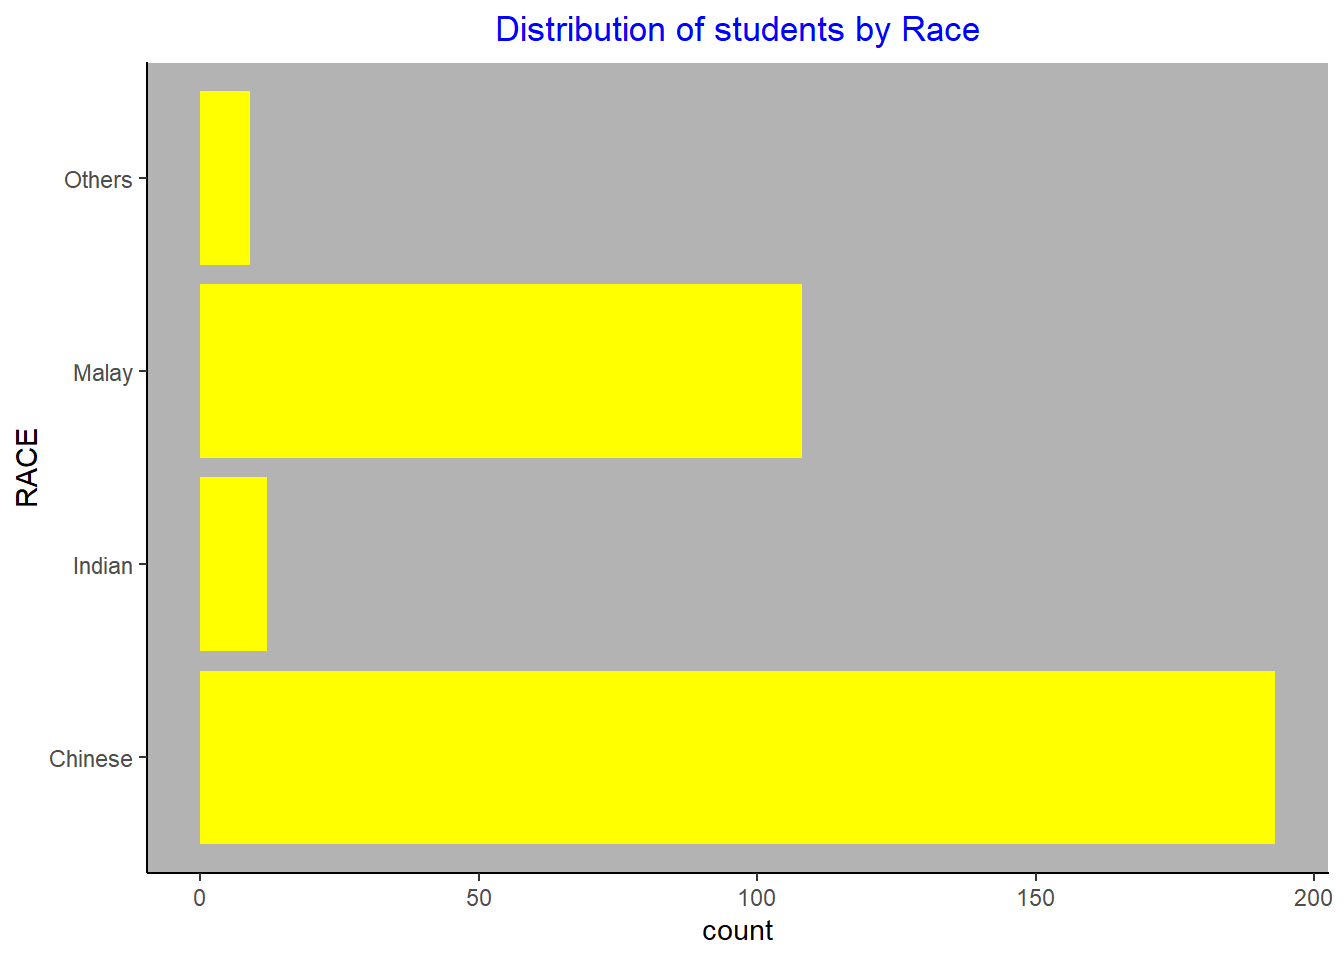
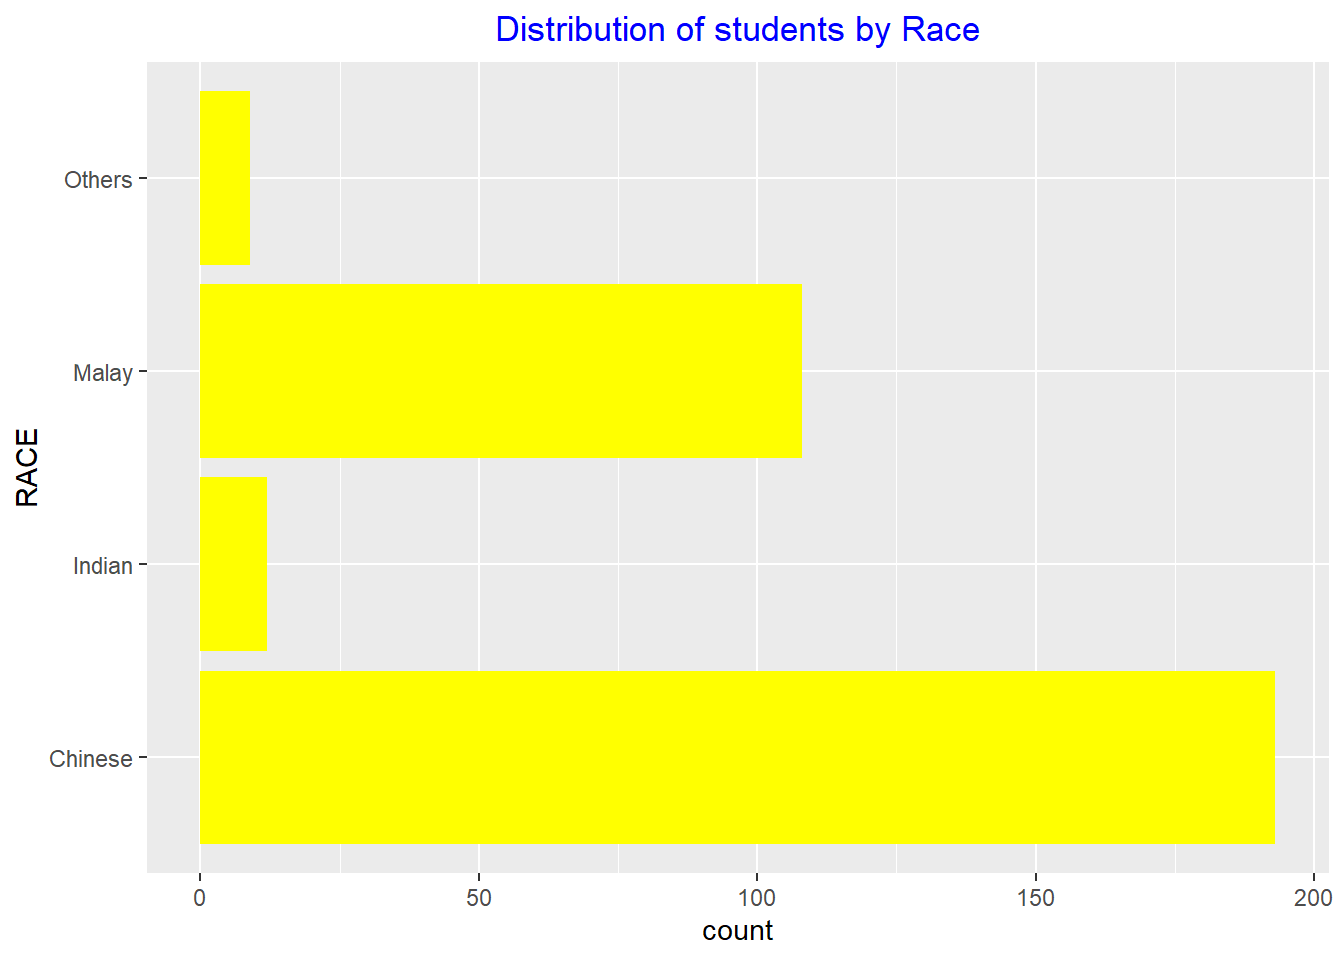
Commit after edits for Lab 1 - Exploring themes

diff --git a/_site/Hands-on_Ex/Hands-on_Ex01/Hands-on_Ex01.html b/_site/Hands-on_Ex/Hands-on_Ex01/Hands-on_Ex01.html
@@ -655,18 +655,65 @@ dbl (3): ENGLISH, MATHS, SCIENCE
 <h1 style="color: yellow">7. Exploring ggplot2 Themes</h1>
 <section id="working-with-themes" class="level2" style="color: white">
 <h2 style="color: white" class="anchored" data-anchor-id="working-with-themes">7.1 Working with themes</h2>
+<div class="tabset-margin-container"></div><div class="panel-tabset">
+<ul class="nav nav-tabs" role="tablist"><li class="nav-item" role="presentation"><a class="nav-link active" id="tabset-2-1-tab" data-bs-toggle="tab" data-bs-target="#tabset-2-1" role="tab" aria-controls="tabset-2-1" aria-selected="true">theme_gray</a></li><li class="nav-item" role="presentation"><a class="nav-link" id="tabset-2-2-tab" data-bs-toggle="tab" data-bs-target="#tabset-2-2" role="tab" aria-controls="tabset-2-2" aria-selected="false">theme_minimal</a></li><li class="nav-item" role="presentation"><a class="nav-link" id="tabset-2-3-tab" data-bs-toggle="tab" data-bs-target="#tabset-2-3" role="tab" aria-controls="tabset-2-3" aria-selected="false">theme_bw</a></li><li class="nav-item" role="presentation"><a class="nav-link" id="tabset-2-4-tab" data-bs-toggle="tab" data-bs-target="#tabset-2-4" role="tab" aria-controls="tabset-2-4" aria-selected="false">theme_classic</a></li></ul>
+<div class="tab-content">
+<div id="tabset-2-1" class="tab-pane active" role="tabpanel" aria-labelledby="tabset-2-1-tab">
 <div class="cell">
 <div class="sourceCode cell-code" id="cb31"><pre class="sourceCode r code-with-copy"><code class="sourceCode r"><span id="cb31-1"><a href="#cb31-1" aria-hidden="true" tabindex="-1"></a><span class="fu">ggplot</span>(<span class="at">data =</span> exam_data, </span>
 <span id="cb31-2"><a href="#cb31-2" aria-hidden="true" tabindex="-1"></a>       <span class="fu">aes</span>(<span class="at">x =</span> RACE)) <span class="sc">+</span></span>
 <span id="cb31-3"><a href="#cb31-3" aria-hidden="true" tabindex="-1"></a>  <span class="fu">geom_bar</span>(<span class="at">fill =</span> <span class="st">"yellow"</span>) <span class="sc">+</span></span>
 <span id="cb31-4"><a href="#cb31-4" aria-hidden="true" tabindex="-1"></a>  <span class="fu">coord_flip</span>() <span class="sc">+</span></span>
-<span id="cb31-5"><a href="#cb31-5" aria-hidden="true" tabindex="-1"></a>  <span class="fu">theme_classic</span>() <span class="sc">+</span></span>
-<span id="cb31-6"><a href="#cb31-6" aria-hidden="true" tabindex="-1"></a>  <span class="fu">theme</span>(<span class="at">panel.background =</span> <span class="fu">element_rect</span>(<span class="at">fill =</span> <span class="st">"grey70"</span>,</span>
-<span id="cb31-7"><a href="#cb31-7" aria-hidden="true" tabindex="-1"></a>                                         <span class="at">color =</span> <span class="st">"white"</span>)) <span class="sc">+</span></span>
-<span id="cb31-8"><a href="#cb31-8" aria-hidden="true" tabindex="-1"></a>  <span class="fu">ggtitle</span>(<span class="st">"Distribution of students by Race"</span>) <span class="sc">+</span> </span>
-<span id="cb31-9"><a href="#cb31-9" aria-hidden="true" tabindex="-1"></a>  <span class="fu">theme</span>(<span class="at">plot.title =</span> <span class="fu">element_text</span>(<span class="at">hjust =</span> <span class="fl">0.5</span>, <span class="at">color =</span> <span class="st">"blue"</span>))</span></code><button title="Copy to Clipboard" class="code-copy-button"><i class="bi"></i></button></pre></div>
+<span id="cb31-5"><a href="#cb31-5" aria-hidden="true" tabindex="-1"></a>  <span class="fu">theme_gray</span>() <span class="sc">+</span></span>
+<span id="cb31-6"><a href="#cb31-6" aria-hidden="true" tabindex="-1"></a>  <span class="fu">ggtitle</span>(<span class="st">"Distribution of students by Race"</span>) <span class="sc">+</span> </span>
+<span id="cb31-7"><a href="#cb31-7" aria-hidden="true" tabindex="-1"></a>  <span class="fu">theme</span>(<span class="at">plot.title =</span> <span class="fu">element_text</span>(<span class="at">hjust =</span> <span class="fl">0.5</span>, <span class="at">color =</span> <span class="st">"blue"</span>))</span></code><button title="Copy to Clipboard" class="code-copy-button"><i class="bi"></i></button></pre></div>
 <div class="cell-output-display">
 <p><img src="Hands-on_Ex01_files/figure-html/unnamed-chunk-25-1.png" class="img-fluid" width="672"></p>
+</div>
+</div>
+</div>
+<div id="tabset-2-2" class="tab-pane" role="tabpanel" aria-labelledby="tabset-2-2-tab">
+<div class="cell">
+<div class="sourceCode cell-code" id="cb32"><pre class="sourceCode r code-with-copy"><code class="sourceCode r"><span id="cb32-1"><a href="#cb32-1" aria-hidden="true" tabindex="-1"></a><span class="fu">ggplot</span>(<span class="at">data =</span> exam_data, </span>
+<span id="cb32-2"><a href="#cb32-2" aria-hidden="true" tabindex="-1"></a>       <span class="fu">aes</span>(<span class="at">x =</span> RACE)) <span class="sc">+</span></span>
+<span id="cb32-3"><a href="#cb32-3" aria-hidden="true" tabindex="-1"></a>  <span class="fu">geom_bar</span>(<span class="at">fill =</span> <span class="st">"yellow"</span>) <span class="sc">+</span></span>
+<span id="cb32-4"><a href="#cb32-4" aria-hidden="true" tabindex="-1"></a>  <span class="fu">coord_flip</span>() <span class="sc">+</span></span>
+<span id="cb32-5"><a href="#cb32-5" aria-hidden="true" tabindex="-1"></a>  <span class="fu">theme_minimal</span>() <span class="sc">+</span></span>
+<span id="cb32-6"><a href="#cb32-6" aria-hidden="true" tabindex="-1"></a>  <span class="fu">ggtitle</span>(<span class="st">"Distribution of students by Race"</span>) <span class="sc">+</span> </span>
+<span id="cb32-7"><a href="#cb32-7" aria-hidden="true" tabindex="-1"></a>  <span class="fu">theme</span>(<span class="at">plot.title =</span> <span class="fu">element_text</span>(<span class="at">hjust =</span> <span class="fl">0.5</span>, <span class="at">color =</span> <span class="st">"blue"</span>))</span></code><button title="Copy to Clipboard" class="code-copy-button"><i class="bi"></i></button></pre></div>
+<div class="cell-output-display">
+<p><img src="Hands-on_Ex01_files/figure-html/unnamed-chunk-26-1.png" class="img-fluid" width="672"></p>
+</div>
+</div>
+</div>
+<div id="tabset-2-3" class="tab-pane" role="tabpanel" aria-labelledby="tabset-2-3-tab">
+<div class="cell">
+<div class="sourceCode cell-code" id="cb33"><pre class="sourceCode r code-with-copy"><code class="sourceCode r"><span id="cb33-1"><a href="#cb33-1" aria-hidden="true" tabindex="-1"></a><span class="fu">ggplot</span>(<span class="at">data =</span> exam_data, </span>
+<span id="cb33-2"><a href="#cb33-2" aria-hidden="true" tabindex="-1"></a>       <span class="fu">aes</span>(<span class="at">x =</span> RACE)) <span class="sc">+</span></span>
+<span id="cb33-3"><a href="#cb33-3" aria-hidden="true" tabindex="-1"></a>  <span class="fu">geom_bar</span>(<span class="at">fill =</span> <span class="st">"yellow"</span>) <span class="sc">+</span></span>
+<span id="cb33-4"><a href="#cb33-4" aria-hidden="true" tabindex="-1"></a>  <span class="fu">coord_flip</span>() <span class="sc">+</span></span>
+<span id="cb33-5"><a href="#cb33-5" aria-hidden="true" tabindex="-1"></a>  <span class="fu">theme_bw</span>() <span class="sc">+</span></span>
+<span id="cb33-6"><a href="#cb33-6" aria-hidden="true" tabindex="-1"></a>  <span class="fu">ggtitle</span>(<span class="st">"Distribution of students by Race"</span>) <span class="sc">+</span> </span>
+<span id="cb33-7"><a href="#cb33-7" aria-hidden="true" tabindex="-1"></a>  <span class="fu">theme</span>(<span class="at">plot.title =</span> <span class="fu">element_text</span>(<span class="at">hjust =</span> <span class="fl">0.5</span>, <span class="at">color =</span> <span class="st">"blue"</span>))</span></code><button title="Copy to Clipboard" class="code-copy-button"><i class="bi"></i></button></pre></div>
+<div class="cell-output-display">
+<p><img src="Hands-on_Ex01_files/figure-html/unnamed-chunk-27-1.png" class="img-fluid" width="672"></p>
+</div>
+</div>
+</div>
+<div id="tabset-2-4" class="tab-pane" role="tabpanel" aria-labelledby="tabset-2-4-tab">
+<div class="cell">
+<div class="sourceCode cell-code" id="cb34"><pre class="sourceCode r code-with-copy"><code class="sourceCode r"><span id="cb34-1"><a href="#cb34-1" aria-hidden="true" tabindex="-1"></a><span class="fu">ggplot</span>(<span class="at">data =</span> exam_data, </span>
+<span id="cb34-2"><a href="#cb34-2" aria-hidden="true" tabindex="-1"></a>       <span class="fu">aes</span>(<span class="at">x =</span> RACE)) <span class="sc">+</span></span>
+<span id="cb34-3"><a href="#cb34-3" aria-hidden="true" tabindex="-1"></a>  <span class="fu">geom_bar</span>(<span class="at">fill =</span> <span class="st">"yellow"</span>) <span class="sc">+</span></span>
+<span id="cb34-4"><a href="#cb34-4" aria-hidden="true" tabindex="-1"></a>  <span class="fu">coord_flip</span>() <span class="sc">+</span></span>
+<span id="cb34-5"><a href="#cb34-5" aria-hidden="true" tabindex="-1"></a>  <span class="fu">theme_classic</span>() <span class="sc">+</span></span>
+<span id="cb34-6"><a href="#cb34-6" aria-hidden="true" tabindex="-1"></a>  <span class="fu">ggtitle</span>(<span class="st">"Distribution of students by Race"</span>) <span class="sc">+</span> </span>
+<span id="cb34-7"><a href="#cb34-7" aria-hidden="true" tabindex="-1"></a>  <span class="fu">theme</span>(<span class="at">plot.title =</span> <span class="fu">element_text</span>(<span class="at">hjust =</span> <span class="fl">0.5</span>, <span class="at">color =</span> <span class="st">"blue"</span>))</span></code><button title="Copy to Clipboard" class="code-copy-button"><i class="bi"></i></button></pre></div>
+<div class="cell-output-display">
+<p><img src="Hands-on_Ex01_files/figure-html/unnamed-chunk-28-1.png" class="img-fluid" width="672"></p>
+</div>
+</div>
+</div>
 </div>
 </div>
 
